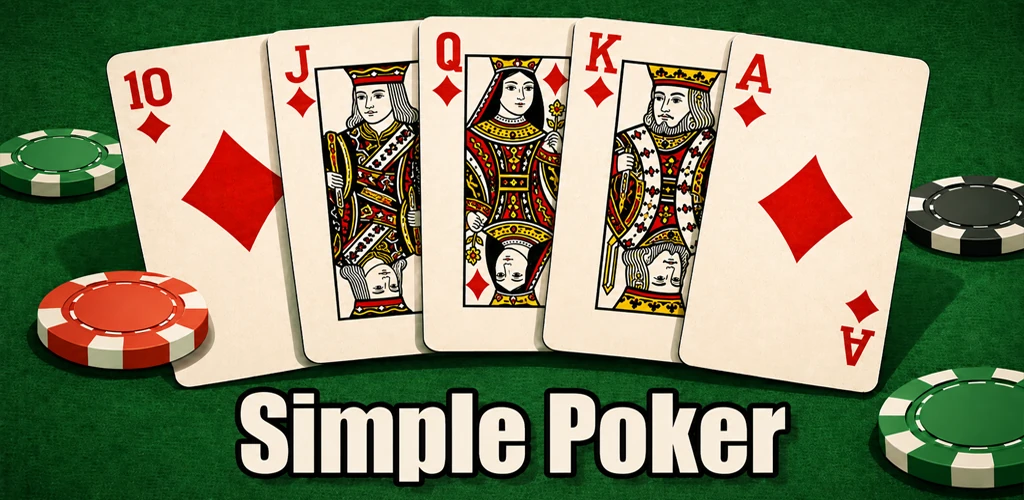
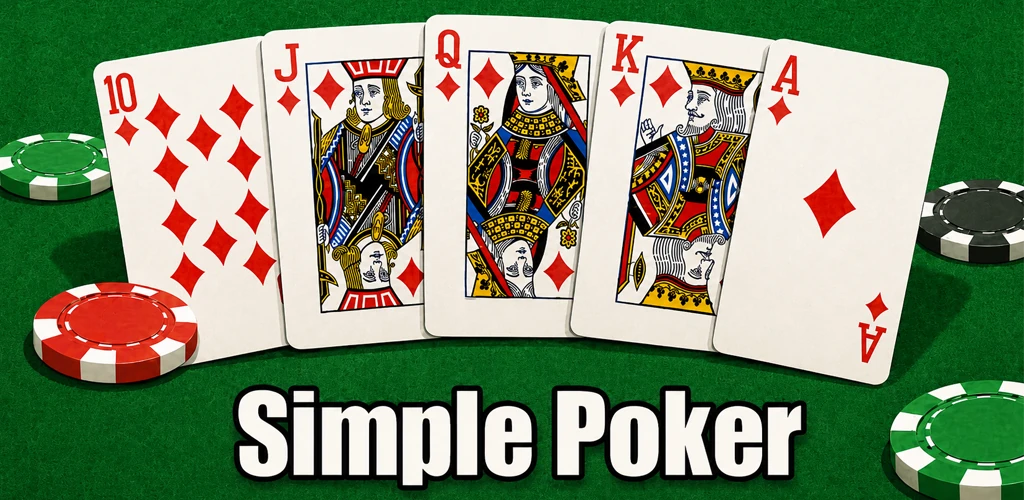
update

diff --git a/docs/seo-analytics-todo.md b/docs/seo-analytics-todo.md
@@ -1,0 +1,84 @@
+# SEO / Search Console / Analytics — やることリスト
+
+作成: 2026-06-29 / 対象: app-flux.com（Lit+Vite MPA、Cloudflare Pages デプロイ元 `accsbi/app-flux-mirror`）
+
+このドキュメントは「次にやるべきこと」の単一参照。実装時は CLAUDE.md（§0 テスト先行 / §1 共通化・コピペ禁止 / §1c フォールバック禁止 / §3 OLD バックアップ）に従う。
+
+---
+
+## 0. 最優先：未 push のコミットがある（デプロイ復旧）
+
+- ローカル `main` が `origin/main` より **1 コミット先行**：`8f030e1 fix(build): drop scripts/ dependency from build`。
+- 背景：`build` に `npm run build:sitemap` を入れたら Cloudflare で `Cannot find module .../build_sitemap.mjs` で失敗した。原因＝`.gitignore` 25行目 `scripts/` で **scripts/ 全体が git 管理外＝deploy 先に存在しない**。修正済み（`build` = `tsc && vite build` に戻した）。
+- **やること**：`git push origin main` → Cloudflare 再ビルド → デプロイ成功を確認。
+- push 後の確認：
+  - `https://app-flux.com/sitemap.xml` が XML（45 URL）を返す（従来は実体なしで HTML が返っていた）。
+  - 各ページソースに gtag（`G-VWEYBN8B5T`）が入っている。
+
+---
+
+## 現状サマリ（コード実測 2026-06-29）
+
+| 項目 | 状態 | 場所 |
+|------|------|------|
+| Google Analytics (gtag.js `G-VWEYBN8B5T`) | ✅ 全サイトHTMLにビルド時注入（Android除外） | `vite.config.ts` の `gtagPlugin()` |
+| sitemap.xml（45 URL・hreflang付き） | ✅ 生成＆コミット済（push待ち） | `scripts/node/build_sitemap.mjs` → `public/sitemap.xml` |
+| noindex タグ | ✅ コード・本番ライブともに皆無（GSC報告は旧サイト残骸） | — |
+| robots.txt | Cloudflare 管理・Google 許可（`search=yes`）・`Sitemap:` 行なし | （リポジトリに実体なし） |
+| **meta description** | ⚠️ **45ページ中3ページのみ**（`/en/ /ja/ /zh/` ホーム）。42ページ欠落 | 各 `*/index.html` |
+| **canonical** | ❌ 全ページ未実装 | — |
+| **hreflang（head内）** | ❌ 未実装（sitemap にはある） | — |
+| **OGP / Twitter card** | ❌ 未実装 | — |
+| **JSON-LD 構造化データ** | ❌ 未実装 | — |
+| 本文レンダリング | ⚠️ Lit のクライアントレンダリング（静的HTMLは `<title>` のみ） | `ccg-catalog-page` / `ccg-detail-page` / `ccg-blog-post` |
+
+ページ構成：en/ja/zh × 15（home / about / blog / blog記事3 / contact / games-apps 6ゲーム / privacy-policy / item_terms_of_use）＝45。
+
+---
+
+## A. Search Console でやること
+
+1. **サイトマップ送信**（push 後）：`https://app-flux.com/sitemap.xml` を登録。実体のない古い sitemap を登録済みなら削除。
+2. **noindex「修正を検証」**：旧サイト残骸なので該当一覧で検証を実行 → 再クロールで解消。
+3. **URL 検査でレンダリング確認（最重要・client-render 対策）**：ホーム・各ゲーム詳細・ブログを「公開URLをテスト」→ **レンダリング結果に本文テキストが出るか**確認。出れば JS インデックス OK。出なければ下の C を優先。確認後「インデックス登録をリクエスト」。
+4. **プロパティはドメイン型**（`app-flux.com`）推奨＝en/ja/zh 全サブパスを一括カバー。
+5. **`app-flux-mirror.pages.dev` ミラーは無視 or noindex**（本番と重複させない）。
+
+## B. Analytics でやること
+
+1. **受信確認**（push 後）：GA4「リアルタイム」で `G-VWEYBN8B5T` にヒットが来るか。
+2. **GA4 ↔ Search Console 連携**：GA4 管理 → サービス間リンク設定 → Search Console。
+3. **設定**：データ保持 14 か月 / Google シグナル / 自分の IP を内部トラフィック除外。
+4. **外部クリック計測**：Play ストアボタン・YouTube リンクのクリック（拡張計測で自動取得。明示したければボタンに `data-` 付与）。
+5. **同意/プライバシー**：EU 配信があれば同意モード。`privacy-policy` ページに GA 利用の記載があるか確認（無ければ追記）。
+6. **アプリ計測**：Android は web GA 対象外（正しい）。必要なら Firebase 別途。
+
+## C. コード起点の SEO 改善（優先度順）
+
+> 全て「生成元の単一ソース」で実装（§1）。手書き HTML 42 枚にコピペ禁止。
+> 実装系統は2つ：
+> - **blog**：`scripts/node/build_blog_pages.mjs` を拡張（既に lang 別 title を生成済み → description/canonical/og を足す）。
+> - **detail/静的ページ**：手書き HTML なので `vite.config.ts` の `transformIndexHtml`（GA と同じ仕組み）で、パス→config/データから title/description/canonical/hreflang/og を注入するのが最も単一ソース。
+
+| 優先 | 項目 | 内容 |
+|------|------|------|
+| **高** | C-1 meta description 全ページ | detail＝config の `overview_intro` 等、blog＝`src/data/blog.ts` の概要を単一ソースに注入 |
+| **高** | C-2 canonical 全ページ | `<link rel="canonical" href="https://app-flux.com/{lang}/.../">`。末尾スラッシュ・重複対策 |
+| **高** | C-3 title/description/canonical を静的HTML化 | 今は本文・description が client-render 頼み。最低限この3つを静的HTMLへ（取りこぼし防止） |
+| 中 | C-4 hreflang を head にも | sitemap に加え二重化（en/ja/zh + x-default） |
+| 中 | C-5 OGP / Twitter card | `og:title/description/image/url` ＋ feature 画像流用。SNS 共有プレビュー |
+| 中 | C-6 JSON-LD | detail＝`VideoGame`/`SoftwareApplication`、blog＝`BlogPosting`、共通＝`BreadcrumbList` |
+| 低 | C-7 root index.html の meta-refresh | サーバリダイレクト推奨だが優先度低。最低限 canonical を `/en/` に |
+
+### 推奨着手順
+1. push（§0）→ A-1〜A-3・B-1/B-2 で土台を確定。
+2. C-1〜C-4 をテストケース先行（§0）でまとめて実装（description + canonical + hreflang、静的HTML化）。
+3. 余力で C-5（OGP）→ C-6（JSON-LD）。
+
+---
+
+## 関連メモ / 参照
+- sitemap 生成・noindex 調査結論・**scripts/ は deploy 非存在の落とし穴**：メモリ `sitemap-and-noindex`。
+- GA 注入の所在（HTML を grep しても出ない＝ビルド時注入）：メモリ `google-analytics-gtag`。
+- sitemap テストケース＆確証：`e2e_test/sitemap/test-cases.md`（SM01-12 全 OK）。
+- URL 構造・リダイレクト：メモリ `url-routing-redirects`、`vite.config.ts` / `public/_redirects`。